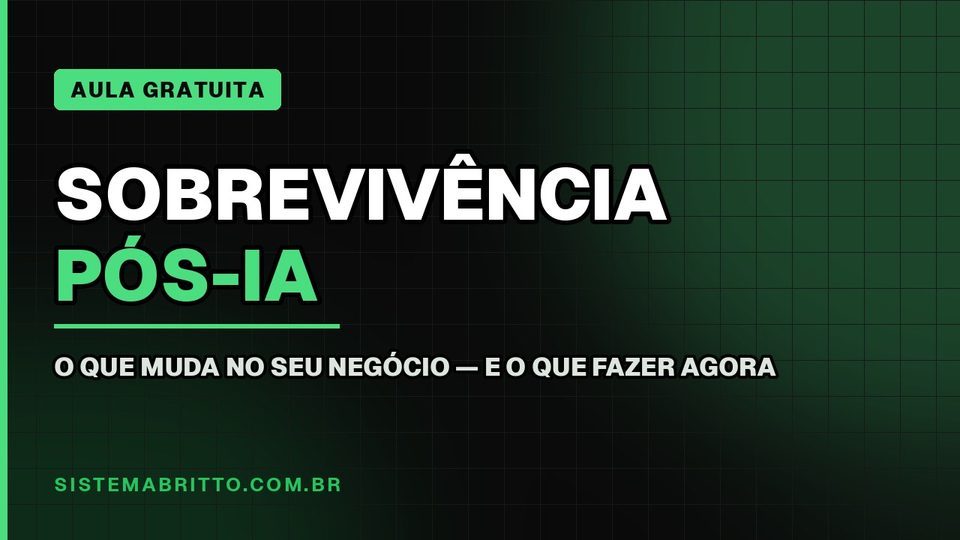
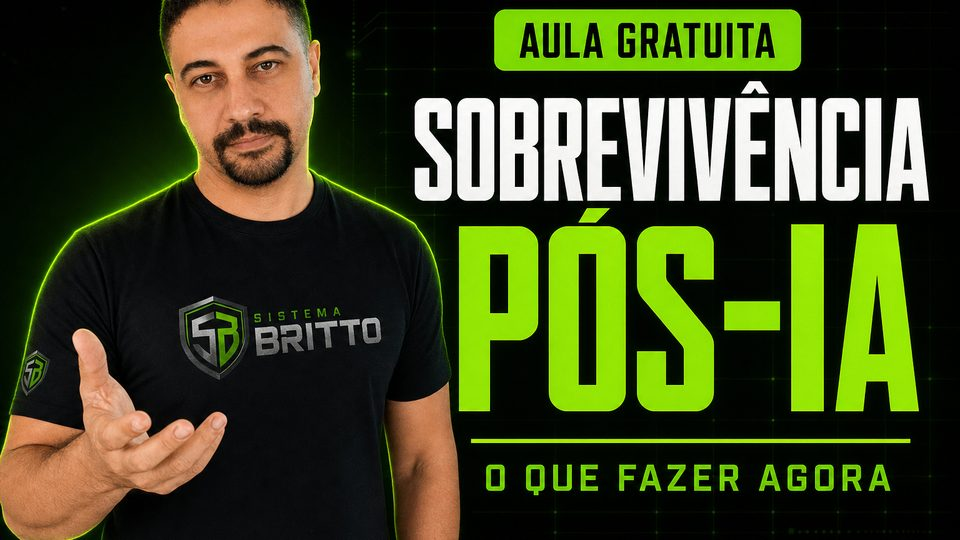
feat(links): card do /whatsapp + capa da call gerada com gpt-image-2
Tambem repara a pagina da call: video e poster apontavam pra shares cujo
arquivo de origem (media/jobs) foi apagado. Novo share aponta pra versao
comercial de 1h59m26s, copiada pro volume de workspace.

diff --git a/pages/call-sobrevivencia-pos-ia.tsx b/pages/call-sobrevivencia-pos-ia.tsx
@@ -10,8 +10,8 @@ import { trackCta, getStoredUtms } from './_app';
 // video/mp4, compatível com <video src>). Token fixo porque hoje é um único
 // vídeo; se isso virar recorrente, o caminho certo é receber o token por
 // query param ou por um registro no Supabase, não hardcode por vídeo novo.
-const VIDEO_SRC = 'https://nexus.workflowapi.com.br/api/shares/974ic8WyWK7mZegrk0Ov7lTMByC2StnT7m5baMigB4U/view';
-const VIDEO_POSTER = 'https://nexus.workflowapi.com.br/api/shares/h6ndFufEjZiA2Hq2GaZWRNE42ElGIfYClViTO_GsVIA/view';
+const VIDEO_SRC = 'https://nexus.workflowapi.com.br/api/shares/Ihs3BWUcGbvakFlmNs4CyjYBJUTE5C7klZKeox53CAM/view';
+const VIDEO_POSTER = 'https://nexus.workflowapi.com.br/api/shares/43d_6cFYfbhhaHILPuzzRyI5_mtjfBm3nYEznwShpYI/view';
 const VIDEO_TITULO = 'Call de Sobrevivência pós-IA';
 const SESSION_KEY = 'sb_video_verificado';
 

diff --git a/pages/links.tsx b/pages/links.tsx
@@ -80,6 +80,15 @@ const SERVICOS: Servico[] = [
     preco: 'Operação mensal',
   },
   {
+    slug: 'whatsapp',
+    href: '/whatsapp',
+    img: '/images/links/whatsapp.png',
+    titulo: 'WhatsApp que responde 24h',
+    descricao:
+      'A mensagem que chega às 22h47 é respondida às 22h47. IA que qualifica, agenda e vende.',
+    preco: 'Assinatura mensal',
+  },
+  {
     slug: 'sistema',
     href: '/sistema',
     img: '/images/links/sistema.png',
